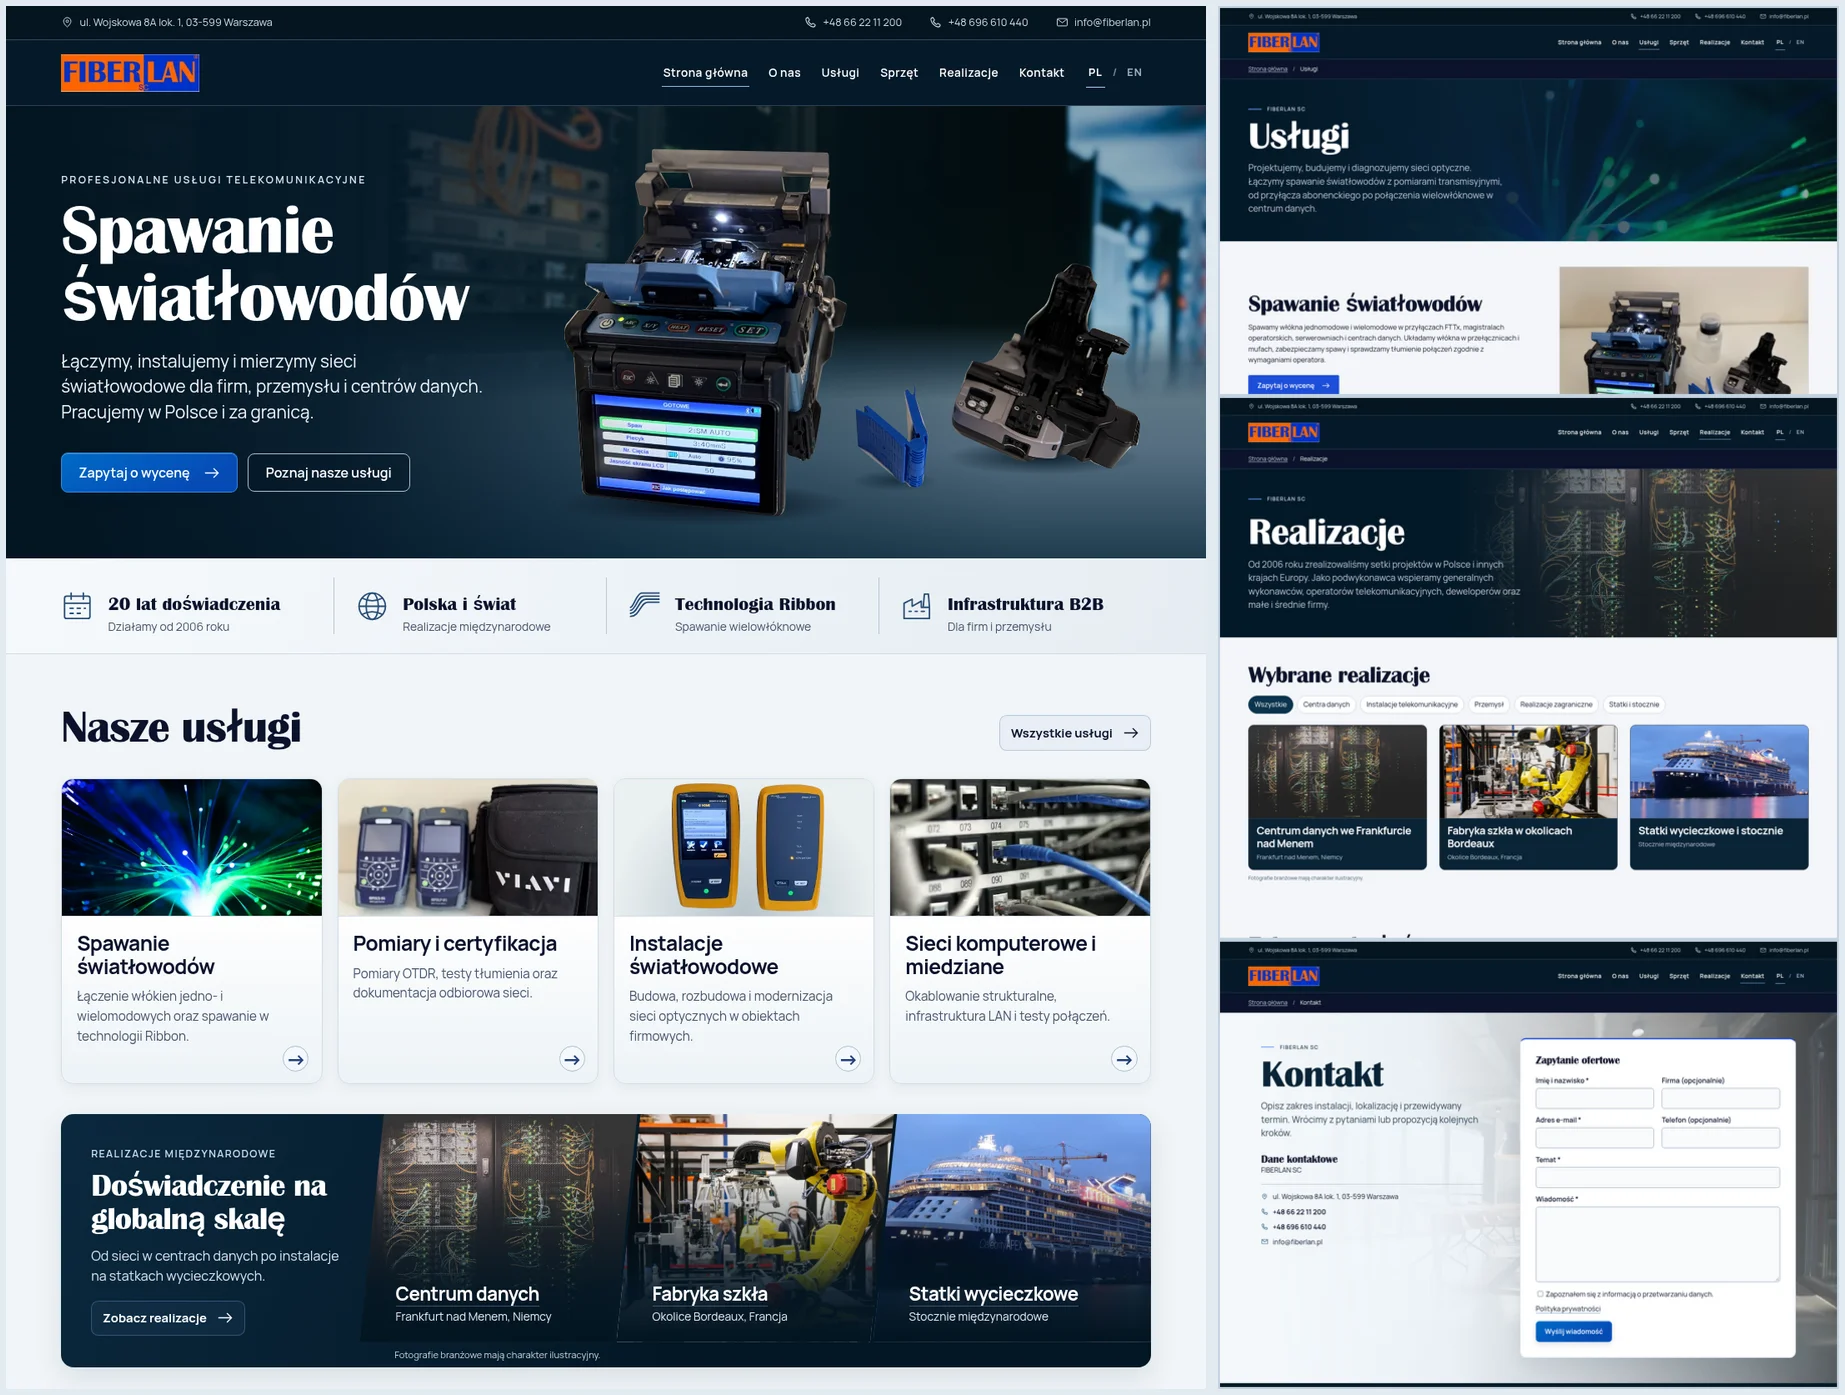
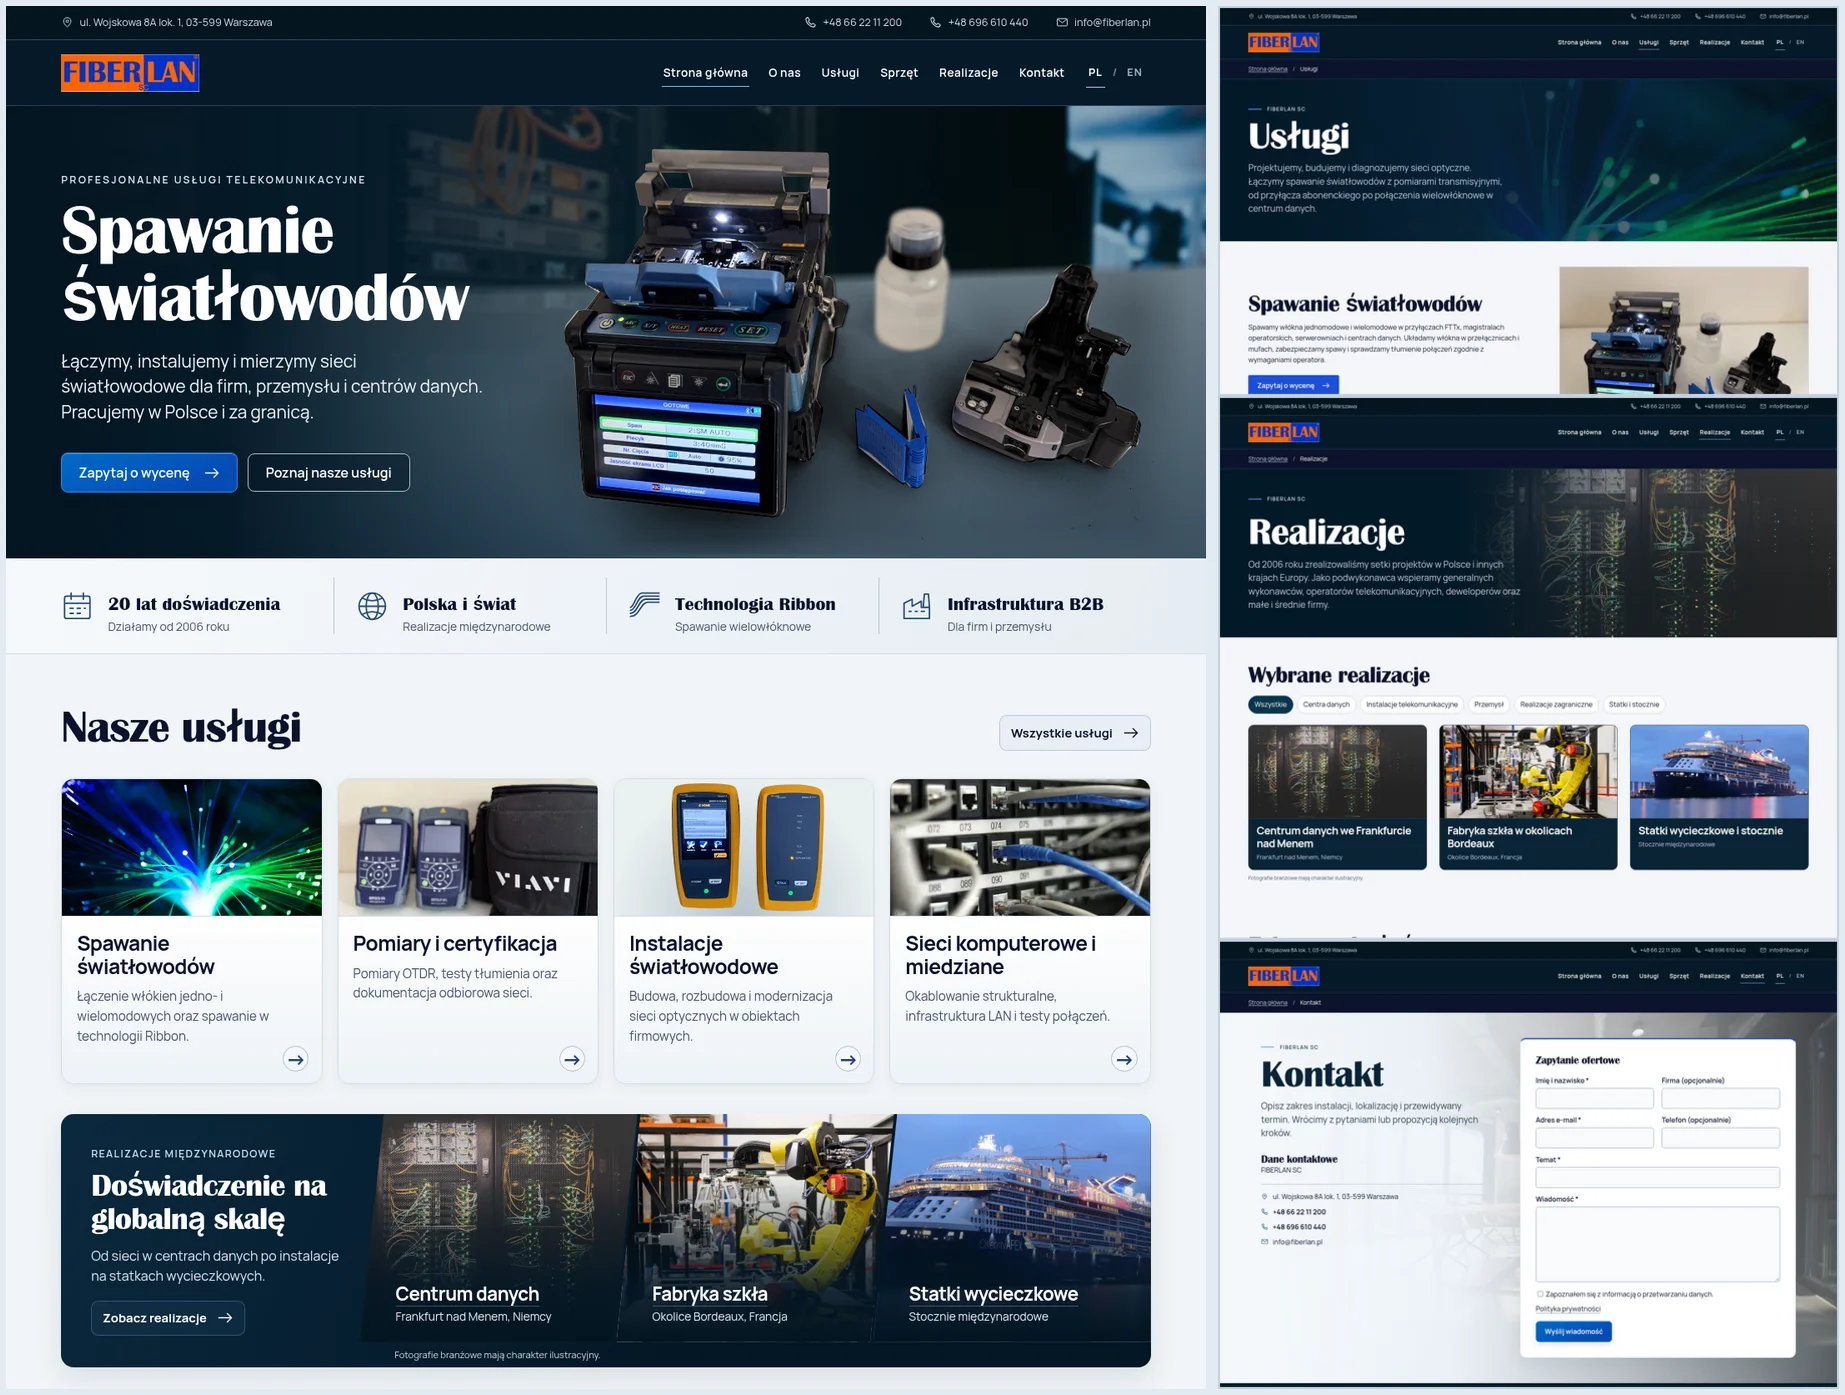
Osadź Fujikurę na blacie z cieniami z oryginalnego zdjęcia

Changed region(s): [[0.1854, 0.1541, 0.6488, 0.4007]]

diff --git a/theme/fiberlan/assets/site.css b/theme/fiberlan/assets/site.css
@@ -582,6 +582,7 @@ html[lang^='en'] .fl-nav .is-menu-open .wp-block-navigation__responsive-containe
     padding-block: clamp(1.5rem, 2.6vw, 2.8rem);
   }
 }
+.fl-hero-copy { position: relative; z-index: 1; }
 .fl-hero-copy .fl-eyebrow { letter-spacing: .19em; color: #dbe8f1; }
 .fl-hero-copy h1 { font-size: clamp(3.1rem, 5.7vw, 6.15rem); margin-block: .65rem 1.2rem; }
 .fl-hero-copy .fl-lead { max-width: 40ch; color: #f2f6fa; }
@@ -597,38 +598,66 @@ html[lang^='en'] .fl-nav .is-menu-open .wp-block-navigation__responsive-containe
   aspect-ratio: 1.53;
 }
 @supports (mask-image: url('diagrams/splicer-photo-mask.svg')) {
-  .fl-hero-figure:not(.is-style-fiberlan-full,.is-style-fiberlan-wide) .fl-splicer-scene::before {
+  .fl-hero-figure:not(.is-style-fiberlan-full,.is-style-fiberlan-wide):has(.fl-splicer-scene) {
+    align-self: end;
+  }
+  /* Extend the work surface behind the photograph, in the perspective of the camera. */
+  .fl-hero-figure:not(.is-style-fiberlan-full,.is-style-fiberlan-wide):has(.fl-splicer-scene)::before {
     content: '';
     position: absolute;
-    inset: 0;
-    background:
-      radial-gradient(ellipse 27% 6% at 25% 94%, #08121cdd 18%, transparent 90%),
-      radial-gradient(ellipse 18% 5% at 82% 82%, #081a26d9 9%, transparent 90%),
-      radial-gradient(ellipse 8% 3% at 57% 88%, #0d2433b3, transparent 90%);
+    inset: 40% -50vw -6rem -55%;
+    transform: skewY(-2deg);
+    transform-origin: left top;
     pointer-events: none;
+    background: linear-gradient(to bottom, #70818c, #617480 5rem, #405564 clamp(13rem,22vw,24rem), #243b4c 37rem);
+    mask-image: linear-gradient(to right, transparent, black min(48vw,46rem)),
+      linear-gradient(to bottom, transparent, black .9rem);
+    mask-composite: intersect;
   }
+  .fl-hero-figure:not(.is-style-fiberlan-full,.is-style-fiberlan-wide) .fl-splicer-scene {
+    overflow: visible;
+  }
+  .fl-hero-figure:not(.is-style-fiberlan-full,.is-style-fiberlan-wide) .fl-splicer-scene::before,
   .fl-hero-figure:not(.is-style-fiberlan-full,.is-style-fiberlan-wide) .fl-splicer-scene img {
+    /* The contact shadows and the equipment share the photograph's coordinate system. */
     position: absolute;
     top: 50%;
     left: 50%;
-    /* Centre the complete working set in the original 1600 × 1200 frame. */
     translate: -51.35% -57.2%;
     width: 116%;
-    max-width: none;
     height: auto;
+    max-width: none;
     aspect-ratio: 4 / 3;
+  }
+  .fl-hero-figure:not(.is-style-fiberlan-full,.is-style-fiberlan-wide) .fl-splicer-scene::before {
+    content: '';
+    pointer-events: none;
+    /* Compensate for the brighter right side of the photographed table.
+       Multiply transfers its texture and actual shadows to the slate surface. */
+    background-image: linear-gradient(to right, white 15%, #c5c5c5 94%), var(--fl-table-photo);
+    background-position: center;
+    background-size: 100% 100%;
+    background-repeat: no-repeat;
+    background-blend-mode: multiply;
+    filter: grayscale(1) brightness(.9) contrast(3.4);
+    mix-blend-mode: multiply;
+    mask-image: linear-gradient(90deg, transparent, black 10% 92%, transparent),
+      linear-gradient(178deg, transparent 39%, black 55% 94%, transparent);
+    mask-composite: intersect;
+  }
+  .fl-hero-figure:not(.is-style-fiberlan-full,.is-style-fiberlan-wide) .fl-splicer-scene img {
     object-fit: contain;
     mask: url('diagrams/splicer-photo-mask.svg') center / contain no-repeat;
   }
 }
 @media (prefers-reduced-motion: no-preference) {
-  .fl-hero-figure:not(.is-style-fiberlan-full,.is-style-fiberlan-wide) .fl-splicer-scene img {
-    animation: fl-splicer-arrive 850ms ease-out both;
+  .fl-hero-figure:not(.is-style-fiberlan-full,.is-style-fiberlan-wide) .fl-splicer-scene::before {
+    animation: fl-table-light 850ms ease-out both;
   }
 }
-@keyframes fl-splicer-arrive {
-  from { opacity: .78; transform: translateY(.4rem); }
-  to { opacity: 1; transform: translateY(0); }
+@keyframes fl-table-light {
+  from { opacity: .8; }
+  to { opacity: 1; }
 }
 @media (max-width: 52rem) {
   .fl-hero::after {

diff --git a/theme/fiberlan/style.css b/theme/fiberlan/style.css
@@ -1,7 +1,7 @@
 /*
 Theme Name: FIBERLAN
 Description: autorski motyw strony FIBERLAN SC
-Version: 4.6.0
+Version: 4.6.1
 Requires at least: 6.6
 Requires PHP: 7.4
 Author: Tomasz Majewski

diff --git a/tests/stage_four_smoke.py b/tests/stage_four_smoke.py
@@ -70,12 +70,13 @@ def check_home_photograph(page, base):
         figure = page.locator(".fl-hero-figure")
         photo = figure.locator("picture.fl-splicer-scene img")
         photo.evaluate("img => img.decode()")
-        animation = photo.evaluate("""img => {
-          const reduced = matchMedia('(prefers-reduced-motion: reduce)').matches;
-          return [reduced, getComputedStyle(img).animationName];
+        lighting = photo.evaluate("""img => {
+          const layer = getComputedStyle(img.parentElement, '::before');
+          return [matchMedia('(prefers-reduced-motion: reduce)').matches,
+                  layer.animationName, layer.backgroundImage.includes(img.currentSrc),
+                  getComputedStyle(img).filter, getComputedStyle(img).animationName];
         }""")
-        assert animation[1] == ("none" if animation[0] else "fl-splicer-arrive"), animation
-        photo.evaluate("img => Promise.all(img.getAnimations().map(animation => animation.finished))")
+        assert lighting[1:] == ["none" if lighting[0] else "fl-table-light", True, "none", "none"], lighting
         mask = photo.evaluate("img => getComputedStyle(img).maskImage")
         url = re.fullmatch(r'url\("(.+)"\)', mask).group(1)
         response = page.request.get(url)
@@ -89,7 +90,7 @@ def check_home_photograph(page, base):
             object_centre = rect[axis] + rect[size] * fraction
             frame_centre = frame[axis] + frame[size] / 2
             assert abs(object_centre - frame_centre) < 2, (path, axis)
-        assert response.text().count("<path ") == 3
+        assert 'filter="url(#defocused-edge)"' in response.text()
         assert photo.evaluate("img => img.currentSrc === img.src")
         assert abs(rect["width"] / rect["height"] - 4 / 3) < .005
         for x, y in ((156, 262), (1487, 1111)):
@@ -102,7 +103,7 @@ def check_home_photograph(page, base):
         expect(photo).to_have_attribute("alt", re.compile("open and display lit" if path == "/en/" else "włączonym ekranem"))
         figure.evaluate("node => node.classList.add('is-style-fiberlan-full')")
         assert photo.evaluate("img => getComputedStyle(img).maskImage") == "none"
-        assert photo.evaluate("img => getComputedStyle(img).animationName") == "none"
+        assert photo.evaluate("img => getComputedStyle(img.parentElement, '::before').content") in ("none", "normal")
         reviews = page.locator(".fl-reviews")
         expect(reviews.get_by_role("heading")).to_have_text("Opinie z Google" if path == "/" else "Google reviews")
         expect(reviews.locator(".fl-reviews-widget")).to_have_count(1)

diff --git a/theme/fiberlan/inc/responsive-media.php b/theme/fiberlan/inc/responsive-media.php
@@ -111,8 +111,9 @@ add_filter( 'render_block_core/image', static function ( $content, $block ) {
 		}
 	}
 	// Serve the original camera file in the hero so the controls and display retain their detail.
-	$source = sprintf( '<picture%s><source type="%s" srcset="%s"%s>',
+	$source = sprintf( '<picture%s%s><source type="%s" srcset="%s"%s>',
 		$scene ? ' class="' . esc_attr( $scene ) . '"' : '',
+		$cutout ? ' style="' . esc_attr( '--fl-table-photo:url(' . wp_json_encode( esc_url_raw( $src ), JSON_UNESCAPED_SLASHES ) . ')' ) . '"' : '',
 		$cutout ? 'image/jpeg' : 'image/webp',
 		$cutout ? esc_url( $src ) : esc_attr( $webp ),
 		$cutout ? '' : ' sizes="' . esc_attr( $sizes ) . '"'

diff --git a/PROJECT_STATUS.md b/PROJECT_STATUS.md
@@ -1,8 +1,8 @@
 # FIBERLAN SC · Status projektu
 
-## Wariant podglądowy z fotografiami · 4.6.0
+## Wariant podglądowy z fotografiami · 4.6.1
 
-Gałąź `preview/szata-fotograficzna` bazuje na `c6e5194`. Motyw korzysta z bieżących bloków PL/EN i ustawień widżetu opinii w danej instalacji WordPressa. W hero wyświetla oryginalny plik Fujikury FSM-62S. Kadruje go maską z kompozycji `269699c`, z zachowaniem proporcji urządzenia i ekranu. Fotografie obiektów w kartach są ilustracyjne. Źródła znajdują się w [wykazie materiałów](theme/fiberlan/assets/MATERIALY.md).
+Gałąź `preview/szata-fotograficzna` bazuje na `c6e5194`. Motyw korzysta z bieżących bloków PL/EN i ustawień widżetu opinii w danej instalacji WordPressa. W hero wyświetla oryginalny plik Fujikury FSM-62S. Na blacie widać spawarkę, obcinarkę, uchwyt i butelkę. Ich położenie, proporcje i cienie pochodzą z tego samego zdjęcia. Fotografie obiektów w kartach są ilustracyjne. Źródła znajdują się w [wykazie materiałów](theme/fiberlan/assets/MATERIALY.md).
 
 [Zrzuty strony głównej, usług, realizacji i kontaktu](docs/podglad-4.6.webp) pochodzą z lokalnego WordPressa.
 

diff --git a/theme/fiberlan/assets/MATERIALY.md b/theme/fiberlan/assets/MATERIALY.md
@@ -19,7 +19,7 @@ W katalogu sprzętu maska `diagrams/fluke-versiv-mask.svg` pokazuje na przezrocz
 
 ## Wariant fotograficzny 4.6
 
-Na stronie głównej przeglądarka wyświetla oryginalny JPEG Fujikury FSM-62S w proporcjach 4:3. Maska `diagrams/splicer-photo-mask.svg` pochodzi z wcześniejszej kompozycji FIBERLAN i odsłania także obcinarkę oraz niebieskie akcesorium. Tło serwerowni tworzy oddzielną warstwę. Styl bloku **Pełny kadr** pokazuje całe zdjęcie z oryginalnym tłem.
+Na stronie głównej przeglądarka wyświetla oryginalny JPEG Fujikury FSM-62S w proporcjach 4:3. Maska `diagrams/splicer-photo-mask.svg` odsłania spawarkę, obcinarkę, niebieski uchwyt i butelkę w ich oryginalnym położeniu. Osobna warstwa pobiera światłocień blatu z tego samego pliku JPEG. Obie warstwy skalują się wspólnie. Styl bloku **Pełny kadr** pokazuje całe zdjęcie z oryginalnym tłem.
 
 Pliki WebP w `scenes` to lokalne, pomniejszone fotografie ilustracyjne. Przedstawiają branże i infrastrukturę. Zdjęcia sprzętu klienta i logo zachowują swoje odrębne pochodzenie.
 
